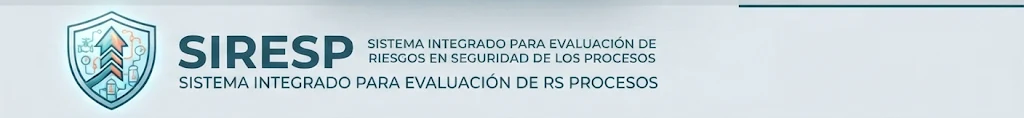
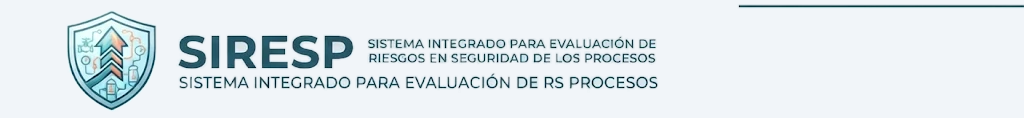
fix: fondo del encabezado identico al de la app (tema oscuro y claro)

diff --git a/desiaho.html b/desiaho.html
@@ -41,7 +41,7 @@ input,textarea,button{font-family:inherit}
 input,textarea{background:var(--bg2);border:2px solid var(--bord);border-radius:10px;color:var(--tx1);font-size:14px;padding:12px;width:100%;outline:none;transition:border .2s}
 input:focus,textarea:focus{border-color:#3b82f6}
 textarea{resize:none}
-.hero{background:#2f373e;border-bottom:1px solid var(--bord);padding:14px 14px 16px;text-align:center}body.light .hero{background:#dfe7eb}
+.hero{background:var(--bg);border-bottom:1px solid var(--bord);padding:14px 14px 16px;text-align:center}
 .hero-icon{font-size:50px;margin-bottom:8px}
 .hero-sub{font-size:10px;color:var(--bord2);letter-spacing:3px}
 .hero-title{font-size:26px;font-weight:900;color:var(--tx1)}

diff --git a/sw.js b/sw.js
@@ -6,7 +6,7 @@
    - Todo lo demás (mismo origen, GET): cache-first + revalidación en segundo plano.
 */
 
-const VERSION = "desiaho-v8";
+const VERSION = "desiaho-v9";
 const CACHE = VERSION;
 
 const PRECACHE = [
